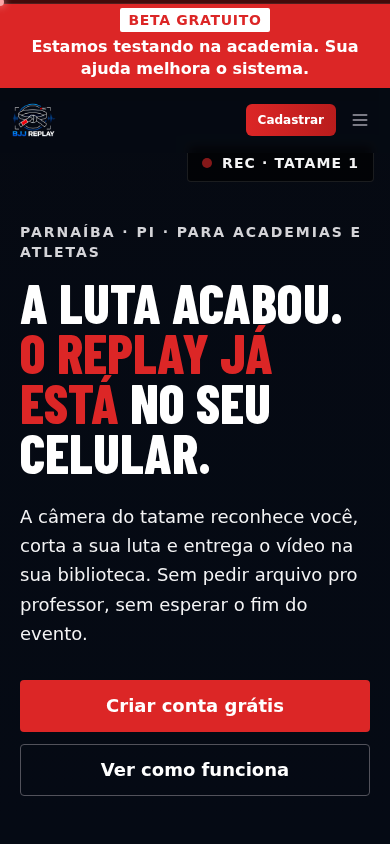
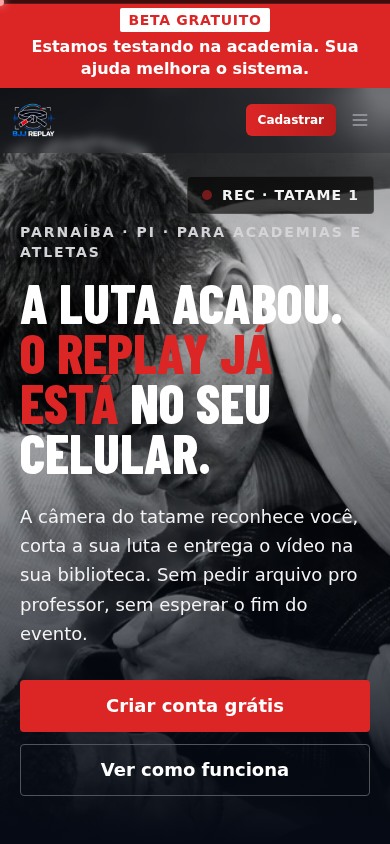
Beta A: home redesenhada + selo Beta gratuito; flag NEXT_PUBLIC_BETA_GRATUITO esconde planos/preços (não implantado)
Claude-Session: https://claude.ai/code/session_013xXNZaeHVBx3ASgCM3YmJB

diff --git a/front/components/landing/Hero.tsx b/front/components/landing/Hero.tsx
@@ -2,61 +2,59 @@
 
 import Link from 'next/link';
 import { motion } from 'framer-motion';
-import { ChevronDown } from 'lucide-react';
-import { Button } from '@/components/ui/Button';
 import { LandingVideo } from '@/components/landing/LandingVideo';
 import { LANDING_MEDIA } from '@/lib/landing/media';
 
 export function Hero() {
   return (
-    <section className="relative flex min-h-[100svh] flex-col items-center justify-center overflow-hidden text-center">
-      {/* Vídeo de fundo — protagonista */}
-      <div className="absolute inset-0">
+    <section className="relative flex min-h-[100svh] items-end overflow-hidden pb-12 pt-40 sm:pb-16">
+      <div className="absolute inset-0 bg-[url(/images/landing/ai-community-competition.jpg)] bg-cover bg-[center_30%]">
         <LandingVideo
           src={LANDING_MEDIA.heroVideo}
           grayscale
           priority
-          className="h-full w-full scale-105 opacity-70 sm:opacity-75"
+          className="h-full w-full scale-105 opacity-60"
         />
       </div>
-      {/* Scrim leve — legível sem apagar o movimento */}
-      <div className="absolute inset-0 bg-gradient-to-b from-black/55 via-black/45 to-background/95" />
-      <div className="pointer-events-none absolute inset-0 bg-[radial-gradient(ellipse_at_center,transparent_0%,rgba(5,10,20,0.55)_100%)]" />
+      <div className="absolute inset-0 bg-[linear-gradient(180deg,rgba(7,9,15,.6)_0%,rgba(7,9,15,.15)_38%,#050a14_100%)]" />
+
+      <div className="absolute right-4 top-44 z-10 flex items-center gap-2.5 rounded border border-white/10 bg-black/65 px-3.5 py-2 text-sm font-semibold uppercase tracking-[.08em] text-zinc-100 sm:right-8 sm:top-44">
+        <span className="h-2.5 w-2.5 animate-pulse rounded-full bg-bjj-red" /> REC · Tatame 1
+      </div>
 
       <motion.div
         initial={{ opacity: 0, y: 24 }}
         animate={{ opacity: 1, y: 0 }}
         transition={{ duration: 0.7, ease: 'easeOut' }}
-        className="relative z-10 mx-auto w-full max-w-3xl px-5 pt-24 sm:px-8 sm:pt-28"
+        className="relative z-10 mx-auto w-full max-w-7xl px-5 sm:px-8"
       >
-        <h1 className="text-[2rem] font-extrabold leading-[1.08] tracking-tight text-white drop-shadow-[0_2px_24px_rgba(0,0,0,0.8)] min-[480px]:text-4xl sm:text-5xl md:text-6xl">
-          Seus replays de luta{' '}
-          <span className="text-neon-gradient">automáticos</span>
-        </h1>
-
-        <p className="mx-auto mt-5 max-w-xl text-base leading-relaxed text-zinc-100 drop-shadow-[0_1px_12px_rgba(0,0,0,0.9)] sm:mt-6 sm:text-lg md:text-xl">
-          A box com IA reconhece você no tatame, grava cada luta e entrega o replay na sua
-          biblioteca — direto da nuvem, sem esperar processamento.
+        <p className="text-sm font-semibold uppercase tracking-[.14em] text-zinc-300">
+          Parnaíba · PI · para academias e atletas
         </p>
-
-        <div className="mt-8 sm:mt-10">
-          <Link href="/signup" className="inline-block w-full max-w-sm sm:w-auto">
-            <Button size="lg" className="h-14 w-full px-10 text-base shadow-[0_0_32px_rgba(220,38,38,0.45)] sm:w-auto">
-              Inscreva-se gratuitamente
-            </Button>
+        <h1 className="mt-4 font-display text-[3.4rem] font-extrabold uppercase leading-[.92] text-white sm:text-8xl lg:text-[8.5rem]">
+          A luta acabou.
+          <br />
+          <span className="text-bjj-red">O replay já está</span> no seu celular.
+        </h1>
+        <p className="mt-6 max-w-xl text-lg leading-relaxed text-zinc-100 sm:text-xl">
+          A câmera do tatame reconhece você, corta a sua luta e entrega o vídeo na sua
+          biblioteca. Sem pedir arquivo pro professor, sem esperar o fim do evento.
+        </p>
+        <div className="mt-8 flex flex-col gap-3 sm:flex-row">
+          <Link
+            href="/signup"
+            className="inline-flex min-h-[3.25rem] items-center justify-center rounded bg-bjj-red px-8 text-lg font-semibold text-white transition-colors hover:bg-red-800"
+          >
+            Criar conta grátis
           </Link>
+          <a
+            href="#how-it-works"
+            className="inline-flex min-h-[3.25rem] items-center justify-center rounded border border-zinc-600 px-8 text-lg font-semibold text-white transition-colors hover:border-zinc-300"
+          >
+            Ver como funciona
+          </a>
         </div>
       </motion.div>
-
-      <motion.a
-        href="#features"
-        aria-label="Rolar para funcionalidades"
-        animate={{ y: [0, 8, 0] }}
-        transition={{ duration: 2, repeat: Infinity, ease: 'easeInOut' }}
-        className="absolute bottom-8 left-1/2 z-10 -translate-x-1/2 text-zinc-400 transition-colors hover:text-neon"
-      >
-        <ChevronDown className="h-6 w-6" />
-      </motion.a>
     </section>
   );
 }

diff --git a/front/app/layout.tsx b/front/app/layout.tsx
@@ -1,5 +1,5 @@
 import type { Metadata } from 'next';
-import { Inter } from 'next/font/google';
+import { Inter, Barlow_Condensed } from 'next/font/google';
 import './globals.css';
 import { BeltThemeProvider } from '@/components/providers/BeltThemeProvider';
 import { MswProvider } from '@/components/providers/MswProvider';
@@ -7,6 +7,7 @@ import { AuthProvider } from '@/lib/hooks/useAuth';
 import { ToastProvider } from '@/components/ui/Toast';
 
 const inter = Inter({ subsets: ['latin'], variable: '--font-inter' });
+const barlow = Barlow_Condensed({ subsets: ['latin'], weight: ['700', '800'], variable: '--font-display' });
 
 export const metadata: Metadata = {
   title: 'BJJ Replay — Seus replays de luta, automáticos',
@@ -27,7 +28,7 @@ export default function RootLayout({
 }: Readonly<{ children: React.ReactNode }>) {
   return (
     <html lang="pt-BR" className="dark">
-      <body className={`${inter.variable} font-sans bg-background text-zinc-100 antialiased`}>
+      <body className={`${inter.variable} ${barlow.variable} font-sans bg-background text-zinc-100 antialiased`}>
         <MswProvider>
           <AuthProvider>
             <BeltThemeProvider>

diff --git a/front/components/landing/CtaFinal.tsx b/front/components/landing/CtaFinal.tsx
@@ -6,6 +6,7 @@ import { ArrowRight } from 'lucide-react';
 import { Logo } from '@/components/brand/Logo';
 import { Button } from '@/components/ui/Button';
 import { LandingMedia } from '@/components/landing/LandingMedia';
+import { BETA_GRATUITO } from '@/lib/config/beta';
 import { LANDING_MEDIA } from '@/lib/landing/media';
 
 export function CtaFinal() {
@@ -48,15 +49,15 @@ export function CtaFinal() {
               Criar conta grátis <ArrowRight className="h-4 w-4" />
             </Button>
           </Link>
-          <a href="#pricing">
+          {!BETA_GRATUITO && <a href="#pricing">
             <Button variant="outline" size="lg" className="w-full sm:w-auto">
               Comparar planos
             </Button>
-          </a>
+          </a>}
         </div>
 
-        <p className="mt-6 text-xs text-zinc-500">
-          Free para sempre · Upgrade quando quiser · Cancele em 2 cliques
+        <p className="mt-6 text-sm text-zinc-400">
+          {BETA_GRATUITO ? 'Beta gratuito na academia · sem cartão, sem cobrança' : 'Free para sempre · Upgrade quando quiser · Cancele em 2 cliques'}
         </p>
         </div>
       </motion.div>

diff --git a/front/components/landing/Navbar.tsx b/front/components/landing/Navbar.tsx
@@ -6,15 +6,21 @@ import { AnimatePresence, motion } from 'framer-motion';
 import { Menu, X } from 'lucide-react';
 import { Logo } from '@/components/brand/Logo';
 import { Button } from '@/components/ui/Button';
+import { BETA_GRATUITO } from '@/lib/config/beta';
+import { BetaBar } from '@/components/landing/BetaBar';
 import { cn } from '@/lib/utils/cn';
 
-const links = [
+const allLinks = [
   { href: '#features', label: 'Funcionalidades' },
   { href: '#how-it-works', label: 'Como funciona' },
   { href: '#testimonials', label: 'Depoimentos' },
   { href: '#pricing', label: 'Planos' },
   { href: '#faq', label: 'FAQ' },
 ];
+
+const links = BETA_GRATUITO
+  ? allLinks.filter((l) => l.href !== '#pricing' && l.href !== '#testimonials')
+  : allLinks;
 
 export function Navbar() {
   const [scrolled, setScrolled] = useState(false);
@@ -36,6 +42,7 @@ export function Navbar() {
           : 'border-b border-transparent bg-background/20 backdrop-blur-sm'
       )}
     >
+      <BetaBar />
       {scrolled && (
         <div className="absolute inset-x-0 bottom-0 h-px bg-gradient-to-r from-transparent via-red-600/30 to-transparent" />
       )}

diff --git a/front/components/landing/Features.tsx b/front/components/landing/Features.tsx
@@ -41,6 +41,7 @@ const miniBadges = [
   { icon: Star, earned: false },
 ];
 
+import { BETA_GRATUITO } from '@/lib/config/beta';
 export function Features() {
   return (
     <section id="features" className="relative overflow-hidden py-28 sm:py-36">
@@ -313,7 +314,7 @@ export function Features() {
             </div>
           </div>
 
-          {/* Pills de qualidade por plano */}
+          {!BETA_GRATUITO && (
           <div className="flex flex-wrap items-center gap-3">
             <span className="flex items-center gap-2 rounded-full border border-zinc-700 bg-surface-raised px-4 py-2 text-xs font-semibold text-zinc-300">
               <Check className="h-3.5 w-3.5 text-emerald-400" /> HD · Premium
@@ -322,6 +323,7 @@ export function Features() {
               <Crown className="h-3.5 w-3.5" /> 4K + IA · Black
             </span>
           </div>
+          )}
         </motion.div>
       </div>
       </div>

diff --git a/front/components/landing/Faq.tsx b/front/components/landing/Faq.tsx
@@ -5,7 +5,9 @@ import { AnimatePresence, motion } from 'framer-motion';
 import { ChevronDown } from 'lucide-react';
 import { cn } from '@/lib/utils/cn';
 
-const faqs = [
+import { BETA_GRATUITO } from '@/lib/config/beta';
+
+const allFaqs = [
   {
     question: 'O plano Free é grátis para sempre?',
     answer:
@@ -37,6 +39,17 @@ const faqs = [
       'Sim, sem multa. Cancelamento em 2 cliques e você mantém o acesso até o fim do período pago.',
   },
 ];
+
+const faqs = BETA_GRATUITO
+  ? [
+      {
+        question: 'O beta é gratuito mesmo?',
+        answer:
+          'Sim. Durante o beta na academia você recebe as suas lutas sem pagar nada. As lutas entregues no beta continuam suas depois que ele acabar.',
+      },
+      ...allFaqs.filter((f) => /XP e ranking|celular|campeonato/.test(f.question)),
+    ]
+  : allFaqs;
 
 export function Faq() {
   const [open, setOpen] = useState<number | null>(null);

diff --git a/front/components/landing/Footer.tsx b/front/components/landing/Footer.tsx
@@ -35,6 +35,7 @@ import { Button } from '@/components/ui/Button';
 import { cn } from '@/lib/utils/cn';
 
 /** Dados de contato oficiais — fonte única para rodapé e links de suporte. */
+import { BETA_GRATUITO } from '@/lib/config/beta';
 const CONTATO = {
   telefone: '(86) 98112-9272',
   whatsapp: 'https://wa.me/5586981129272',
@@ -56,7 +57,7 @@ const columns: { title: string; icon: ElementType; links: FooterLink[] }[] = [
       { label: 'FAQ', href: '#faq', icon: HelpCircle },
     ],
   },
-  {
+  ...(BETA_GRATUITO ? [] : [{
     title: 'Assinatura',
     icon: CreditCard,
     links: [
@@ -65,7 +66,7 @@ const columns: { title: string; icon: ElementType; links: FooterLink[] }[] = [
       { label: 'Plano Black', href: '/signup?plan=black', icon: Crown },
       { label: 'Começar grátis', href: '/signup', icon: UserPlus },
     ],
-  },
+  }]),
   {
     title: 'Conta',
     icon: UserPlus,

diff --git a/front/app/page.tsx b/front/app/page.tsx
@@ -10,6 +10,7 @@ import { Testimonials } from '@/components/landing/Testimonials';
 import { Pricing } from '@/components/landing/Pricing';
 import { Faq } from '@/components/landing/Faq';
 import { CtaFinal } from '@/components/landing/CtaFinal';
+import { BETA_GRATUITO } from '@/lib/config/beta';
 import { Footer } from '@/components/landing/Footer';
 
 export default function LandingPage() {
@@ -23,8 +24,8 @@ export default function LandingPage() {
       <HowItWorks />
       <VideoReel />
       <CommunityGallery />
-      <Testimonials />
-      <Pricing />
+      {!BETA_GRATUITO && <Testimonials />}
+      {!BETA_GRATUITO && <Pricing />}
       <Faq />
       <CtaFinal />
       <Footer />

diff --git a/front/components/landing/BetaBar.tsx b/front/components/landing/BetaBar.tsx
@@ -1,0 +1,15 @@
+import { BETA_GRATUITO } from '@/lib/config/beta';
+
+export function BetaBar() {
+  if (!BETA_GRATUITO) return null;
+  return (
+    <div className="relative z-50 bg-bjj-red text-white">
+      <p className="mx-auto flex max-w-7xl flex-wrap items-center justify-center gap-x-3 gap-y-1 px-4 py-2 text-center text-base font-semibold leading-snug">
+        <span className="rounded-sm bg-white px-2 py-0.5 text-sm font-extrabold uppercase tracking-wider text-bjj-red">
+          Beta gratuito
+        </span>
+        <span>Estamos testando na academia. Sua ajuda melhora o sistema.</span>
+      </p>
+    </div>
+  );
+}

diff --git a/front/lib/config/beta.ts b/front/lib/config/beta.ts
@@ -1,0 +1,3 @@
+// Beta gratuito da academia: liga/desliga a cobrança sem nova versão de código
+// (basta mudar a variável e reconstruir). Ligado = sem preço, plano nem botão de assinar.
+export const BETA_GRATUITO = process.env.NEXT_PUBLIC_BETA_GRATUITO === 'true';

diff --git a/front/tailwind.config.ts b/front/tailwind.config.ts
@@ -8,6 +8,7 @@ const config: Config = {
   ],
   theme: {
     extend: {
+      fontFamily: { display: ['var(--font-display)', 'Impact', 'sans-serif'] },
       colors: {
         background: '#050a14',
         surface: {
